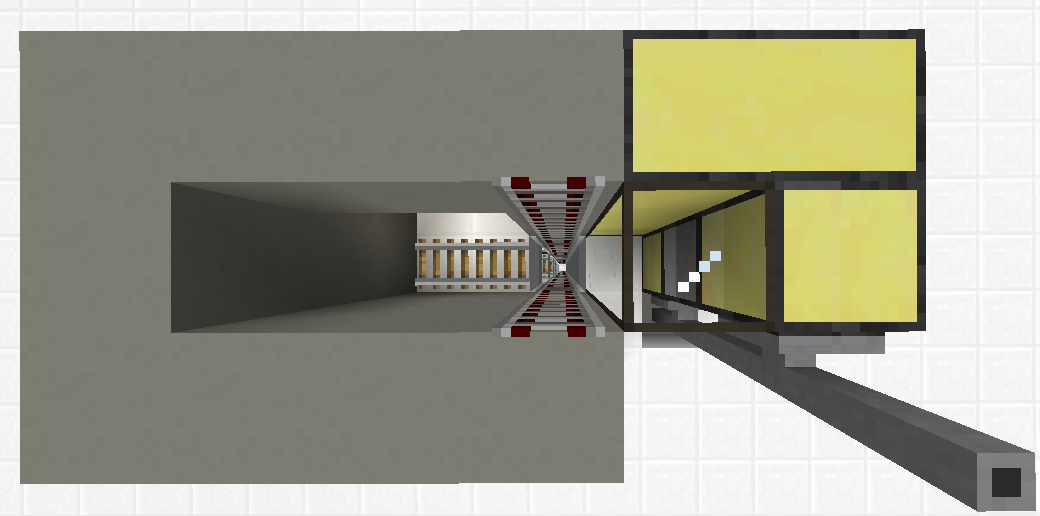
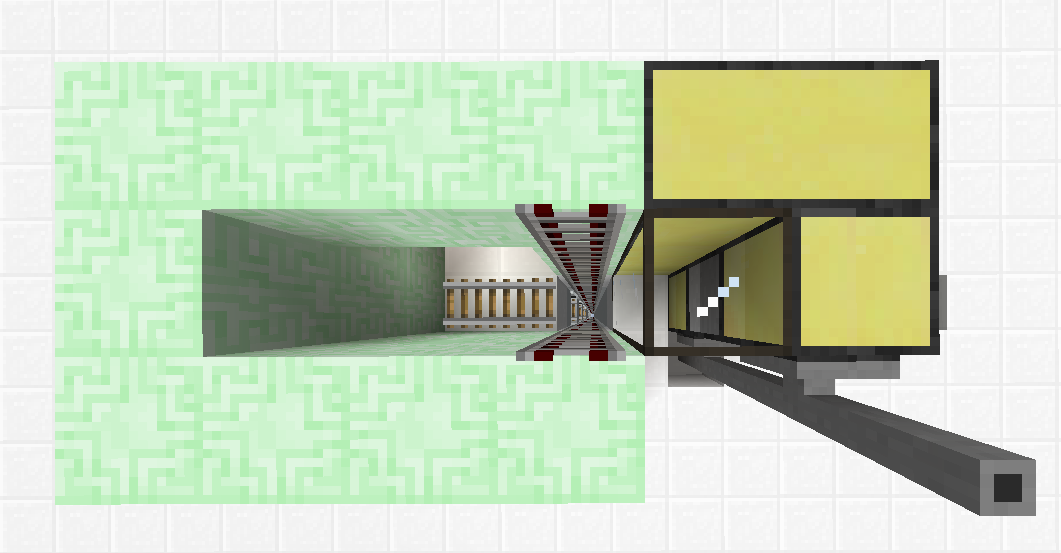
Cart dispenser update (#5)
* Cart Dispense Software

* Rename cartdispenser.lua to cartdispenser

* Rename startup-d.lua to startup-d

* Update README.md

* Update README.md

* Elevator-Inc Images

Addes a gif and images for the readme

* Update README.md

* Added Dispenser Pictures

* Update README.md

* Update README.md

* Updated Booting Sequence

diff --git a/elevator-inc/README.md b/elevator-inc/README.md
@@ -1,27 +1,20 @@
 # MutsFM's Elevator Inc.
 
-This readme will first explain shortly how the "MutsFM Elevator Inc" elevator system works in Minecraft and a quick guide to setting up your own system using "MutsFM Elevator Inc" software. Below that is an explanation on how the individual files in this repository work.
+This readme explains how the "MutsFM Elevator Inc" elevator system works in Minecraft and a quick guide to setting up your own system using "MutsFM Elevator Inc" software. Below that is an extensive explanation on how the individual files in this repository work.
 
 # Table of Contents
-[Invidual Files](README.md#individualfiles)
-
-Github repository files
-=====
-
-The following files should be in the repository:
-  * startup-c
-  * floorcontroller
-  * floorcontroller-lf
-  * activatefloor
-  * deactivatefloor
-  * startup-t
-  * touchscreen
-  * startup-d *to be added*
-  * cartdispenser *to be added*
+- [Important](https://github.com/MutsFM/computercraft/tree/master/elevator-inc#important)
+- [How the Elevator System Works](https://github.com/MutsFM/computercraft/tree/master/elevator-inc#how-the-elevator-system-works)
+- [Quick Start Guide for Setting Up the Software](https://github.com/MutsFM/computercraft/tree/master/elevator-inc#quick-start-guide-for-setting-up-the-software)
+- [Invidual Files](https://github.com/MutsFM/computercraft/tree/master/elevator-inc#individual-files)
+  - [Controller Computer](https://github.com/MutsFM/computercraft/tree/master/elevator-inc#controller-computer-1)
+  - [Touchscreen Computer](https://github.com/MutsFM/computercraft/tree/master/elevator-inc#touchscreen-computer-1)
+  - [Cart Dispenser Computer](https://github.com/MutsFM/computercraft/tree/master/elevator-inc#cart-dispenser-1)
+- [Github Repository Files](https://github.com/MutsFM/computercraft/tree/master/elevator-inc#github-repository-files)
 
 IMPORTANT
 =====
-Every floor uses two computers: a controller computer and a touchscreen computer. Each uses its own startup script, however for clarity, the names of these scripts have been amended slightly in this repository to indicate which script belongs to which computer. Additionally, several scripts provided in the respository apply to the same computer and it depends on the needs of your elevator system (e.g. number of floors or visual design for your touchscreen) which script you require.
+Every floor uses two computers: a controller computer and a touchscreen computer. Each uses its own startup script, however for clarity, the names of these scripts have been amended slightly in this repository to indicate which script belongs to which computer. Additionally, several scripts provided in the respository apply to the same touchscreen computer and it depends on the needs of your elevator system (e.g. number of floors or visual design for your touchscreen) which script you require.
 
 Therefore, several files in this repository need to be titled differently on your computer in Minecraft. Each section below will indicate if this is the case.
 
@@ -36,21 +29,30 @@ Using Railcraft, minecarts travel upwards on redstone powered elevator tracks an
 #### Elevator System
 Every floor needs to have a controller computer and a 'touchscreen' connected to a computer. The player clicks on a floor number displayed on the touchscreen. The touchscreen computer registers this input, and sends out a corresponding message for the selected floor over the rednet network. Controller computers listen for these messages and once they receive a message, they act accordingly by either activating or deactivating their redstone output. The redstone output from the controller computer in turn influences the elevator track located at that level.
 
-Pictures of the elevator system's layout are available in the Wiki. (TO BE ADDED)
+Below are visual representations of the layout for one floor of the elevator system.
+
+![ElevatorSkeleton](/images/elevator-inc/ElevatorSkeleton.gif)
+![PCView](/images/elevator-inc/pcview.png)
+![TopDownView](/images/elevator-inc/topview.png)
+
+**Note:** The elevator tracks and network cables should be extended upwards and downwards as necessary. The glass blocks are added for visibility, while green blocks added as contrast. Both the glass blocks and green blocks merely serve illustrative purposes, and can be replaced by any block suitable for your building's interior style.
+
+**Note:** The disk station is optional, however may speed up the elevator system's building and installation process. See [Additional Tips](https://github.com/MutsFM/computercraft/tree/master/elevator-inc#additional-tips) below.
 
 If the floor is selected, the controller computer powers the elevator track at the floor and all elevator tracks below it, allowing for the cart to reach that floor - regardless if the cart is coming from a higher or lower floor.
 
-If the floor is unselected, the controller computer does not power the elevator track at the floor. It may however still be powered if a floor above the respective floor is selected. The power then however comes from the controller computer above.
+If the floor is unselected, the controller computer does not power the elevator track at the floor. Elevator tracks may however still be powered if a floor above the respective floor is selected - the power then however should be coming from an activated controller computer above.
 
-For aesthetic purposes, it is advised to reserve at least a floor space of 4 blocks wide by 6 blocks long. Smaller would be possible, at the cost of aesthetics. Due to the height of the touchscreen, every floor needs to be at least 3 blocks high.
+For aesthetic purposes, it is advised to reserve at least a floor space of 4 blocks wide by 7 blocks long. Smaller would be possible, at the cost of aesthetics. Due to the height of the touchscreen, every floor needs to be at least 3 blocks high.
 
 #### Network
-All computers (both controller and touchscreen) in a building's elevator system are connected via network wires. Although wireless connection is a possibility in ComputerCraft, it may result in unwanted interference from other computers broadcasting on the wireless communication channel used by the elevator system. In addition, elevator systems in two adjacent buildings would need to broadcast on different channels, in order for the systems to operate separately. This would however require a lot of small changes to the code on each computer in the system to be done in Minecraft itself. Therefore, a closed wired network has been chosen as the better solution, as this can be implemented without the risk of interference and without the need to make any changes to the network code from the computer in Minecraft.
+All computers in a building's elevator system are connected via networking cables. Although wireless connection is a possibility in ComputerCraft, it may result in unwanted interference from other computers broadcasting on the wireless communication channel used by the elevator system. In addition, elevator systems in adjacent buildings would need to broadcast on different channels, in order for the systems to operate separately. This would however require a lot of additional small changes to the code on each computer in the system to be done in Minecraft itself. Therefore, a closed wired network has been chosen as the better solution, as this can be implemented without the risk of interference and without the need to make any changes to the network code from the computer in Minecraft.
 
 #### Cart Dispenser
 The software comes with a feature to request an empty Minecart to be delivered to your respective floor. You would need to set up a cart dispenser system in the basement of your building for this feature to work.
 
-Pictures of the cart dispenser system are available in the Wiki. (TO BE ADDED)
+![DispenserSystem](/images/elevator-inc/DispenserSystem.png)
+![DispenserComputer](/images/elevator-inc/DispenserComputer.png)
 
 The cart dispenser feature is however optional. Should you not wish to have such feature, you can comment out the button in the touchscreen programme (for more information, see the individual file on the cart dispenser below). In that case, you need to bring your own minecart with you.
 
@@ -68,7 +70,7 @@ On your controller computer on the **lowest** floor of your building that you wa
 ### Touchscreen Computer
 The touchscreen computer requires a 2 wide, 3 high construction of monitors, to be placed on the right side of the touchscreen computer.
 
-On your touchscreen computer, you need to install the startup-t and touchscreen programmes. You need to title the startup-t programme as startup. You need to replace `"Floor1"` in the first line of the touchscreen programme with the corresponding floor number, e.g. `"Floor6"`. Note that the groundfloor should be entered as `"Floor0"`.
+On your touchscreen computer, you need to install the startup-t and touchscreen programmes. You need to title the startup-t programme as `startup`. You need to replace `"Floor1"` in the first line of the touchscreen programme with the corresponding floor number, e.g. `"Floor6"`. Note that the groundfloor should be entered as `"Floor0"`.
 
 **NOTE:** If you wish, you can customise the colors on the screen by changing the color codes in the section 'Color Customisation Options'.
 
@@ -77,11 +79,40 @@ On your touchscreen computer, you need to install the startup-t and touchscreen 
 **NOTE:** In the original design, touchscreen programmes for up to 10 floors display all available floors on the screen. Touchscreen programmes for more than 10 floors use multiple pages to display all floors. In the numpad design, a maximum of 25 floors is displayed at one page, with the possiblity to display more than 25 floors by using multiple pages. 
 
 ### Cart Dispenser Computer
-To be added
+The cart dispenser computer requires a cart dispenser placed at the back of if, with its opening facing the tracks. A booster track, powered by redstone, is required to be placed on the first track from the cart dispener. (The two additional tracks as pictured in the image above are not required, merely the booster track.)
+
+On your cart dispenser computer, you need to install the startup-d and cart dispenser programmes. You need to title the startup-d programme as `startup`. You need to fill the cart dispenser with minecarts. You need to connect the cart dispenser computer with a wired modem and networking cables to your elevator system.
+
+### Additional Tips
+The quickest way to build a lot of floors is to use worldedit. Build one floor, and subsequently copy and paste additional floors above or below it. **NOTE:** One small drawback however is that Minecraft copies the computers rather then replacing them with new computers; said differently, the copied computers are copies of the original floor's computer and are therefore not assigned a unique computerID. This means that all computers in your elavator system use the same folder on your pc, making it impossible to assign different floors, as they require a separate folder for each computer in Minecraft. **You therefore always need to replace the computers with new computers in case you use worldedit to copy and paste your floors.** Nevertheless, replacing the computers is still significantly quicker than building all floors from scratch.
+
+The quickest way to get the programmes in this repository on your computercraft computers depends on whether you have access to the world's save files.
+
+*If you have access to the world's save files*, the easiest way would be to simply download the programmes in this repository and subsequently copy and paste them in the respective computercraft computer folders. (Don't forget to adjust them accordingly!)
+
+*If you do not have access to the world's save files*, then the easiest way would be to use git to download all files to one computer in Minecraft, and subsequently put them on a disk. Copy and pasting them from that disk on the respective computers in Minecraft is much faster than typing the 'git get' command for every programme, due to the length of the command.
+
+This latter method however requires the 'git' programme to be installed on a computer on your Minecraft server. Should you not have access to the programme, ask your server's admin to place it on a computer for you.
+
+To get the programmes using git on your computer in Minecraft, use the command structure as presented in the following example:
+
+`git get MutsFM computercraft master elevator-inc/startup-c startup`
 
 ---
 # Individual Files
 The explanations below are ordered by the type of computer that uses them.
+
+- [Controller Computer](https://github.com/MutsFM/computercraft/tree/master/elevator-inc#controller-computer-1)
+  - [startup-c](https://github.com/MutsFM/computercraft/tree/master/elevator-inc#startup-c)
+  - [floorcontroller](https://github.com/MutsFM/computercraft/tree/master/elevator-inc#floorcontroller)
+  - [floorcontroller](https://github.com/MutsFM/computercraft/tree/master/elevator-inc#floorcontroller-lf)
+  - [activatefloor & deactivatefloor (optional)](https://github.com/MutsFM/computercraft/tree/master/elevator-inc#activatefloor--deactivatefloor-optional)
+- [Touchscreen Computer](https://github.com/MutsFM/computercraft/tree/master/elevator-inc#touchscreen-computer-1)
+  - [startup-t](https://github.com/MutsFM/computercraft/tree/master/elevator-inc#startup-t)
+  - [touchscreen](https://github.com/MutsFM/computercraft/tree/master/elevator-inc#touchscreen)
+- [Cart Dispenser Computer](https://github.com/MutsFM/computercraft/tree/master/elevator-inc#cart-dispenser-1)
+  - [startup-d](https://github.com/MutsFM/computercraft/tree/master/elevator-inc#startup-d)
+  - [cartdispenser](https://github.com/MutsFM/computercraft/tree/master/elevator-inc#cartdispenser)
 
 ---
 ## Controller Computer
@@ -152,14 +183,17 @@ In addition, this file will replicate a computer booting - which sole purpose is
 
 This programme allows your players to select a floor for the elevator.
 
-It has three main purposes:
+It has four main purposes:
 * It connects to the screen. (Make sure the monitor is placed on the right side of the computer!),
 * It registers the input from the player on the touchscreen, and 
-* If the player selects a floor, it sends out a corresponding rednet message to controller computers.
+* If the player selects a floor, it sends out a corresponding rednet message to controller computers, or
+* If the player selects "request cart", it sends out a corresponding rednet message to the cart dispenser computer.
 
 The touchscreen also includes a feature that displays the corresponding floor number differently from the other floors, allowing players to identify on which floor they are.
 
 The touchscreen programme furthermore allows for easy customisation of the colors displayed on the screen. You can change the colors in the Color Customisation Options section. This is described in further detail below.
+
+**Note:** The cart request function and system is optional. The elevator system will still work, even if the cart dispense system is not build. In such case, the 'cart request' button on the touchscreen will merely not result in a cart to be delivered to the floor. If desired, you could delete or comment out the respective sections in the touchscreen programme. Touchscreen programmes without a cart request function are currently considered for a future release of Elevator-Inc.
 
 The touchscreen programme in this repository is for a 7 floor building, however in the folder "ts" you can find additional touchscreen programmes for buildings with more floors and with different designs. The number behind "touchscreen" indicates for how many floors that programme is designed. For example, touchscreen20n is designed for a building with 20 floors with a numpad design rather than the original design.  
 
@@ -175,27 +209,69 @@ The screen function is used to draw the touchscreen, presenting the floors which
 The listen function waits for the player to hit the screen, and if a player hits a floor number, then sends the accompanying message over rednet to the controller computers.
 
 *Color customization.* By changing the color codes in the respective lines, you can change the following elements:
-**TO BE MADE INTO A TABLE**
-- `sbckc` allows you to change the screen's background color.
-- `ttxtc` allows you to change the color of the text presented at the top of the screen.
-- `bckc` allows you to change the background color of the floor number buttons.
-- `ftxtc` allows you to change the color of the text for the floor number corresponding to the floor (as entered in the first line of the programme).
-- `txtc` allows you to change the color of the text for the other floor numbers.
+
+Code | Changes
+-----|--------
+`sbckc` | screen's background color
+`ttxtc` | text presented at the top of the screen
+`bckc` | background color of the floor buttons
+`ftxtc`| color of the text for the floor number corresponding to the floor (as entered in the first line of the programme)
+`txtc` | color of the text for the other floor numbers
 
 You can also change the floor selection confirmation screen's colors, by changing the color code of `csbckc` to change the screen's background color, and `cstextc` to change the color of the text.
 
 #### Original Design 10+ Floors
-To be added.
+To be added in a future version of Elevator-Inc.
 
 #### Numpad Design
-Code is similar to the original design, with the major differences being that the floors are displayed as numerical buttons (e.g. "1", "2") rather than buttons including the word floor (e.g. "Floor 1", "Floor2"), and that a maximum of 25 floors can be displayed on the screen.
+Code is similar to the original design, with the major differences being that the floors are displayed as numerical buttons (e.g. "1", "2") rather than buttons including the word "floor" (e.g. "Floor 1", "Floor2"), and that a maximum of 25 floors can be displayed on the screen rather than 10 floors.
 
-To add colour customisation options.
+*Color customization.* By changing the color codes in the respective lines, you can change the following elements:
+
+Code | Changes
+-----|--------
+`sbckc` | screen's background color
+`ttxtc` | text presented at the top of the screen
+`txtc` | color of the text for the floor numbers
+`fcbkc`| background color for the floor button corresponding to the floor (as entered in the first line of the programme)
+`bckc` | background color of the other floor buttons
 
 #### Numpad Design 25+ Floors
-To be added
+To be added in a future version of Elevator-Inc.
 
 ---
 ## Cart Dispenser
-To be added
-Add text on commenting out the function
+The Cart Dispenser Computer dispenses a cart upon request by the player. It requires the following scripts:
+- startup-d
+- cartdispenser
+
+**Note:** The cart request function and system is optional. The elevator system will still work, even if the cart dispense function is not installed. In such case, the 'cart request' button on the touchscreen will merely not result in a cart to be delivered to the floor. If desired, you could delete or comment out the respective sections in the touchscreen programme. Dedicated touchscreen programmes without a cart request function are currently considered for a future release of Elevator-Inc.
+
+---
+### startup-d
+**Important!** This file should be titled as followed on your controller computer in Minecraft: `startup`
+
+It has two main purposes:
+* To connect your computer to the rednet network. (Make sure you connect the wired modem on the left side of the monitor.)
+* To automatically start the cartdispenser programme.
+
+In addition, this file will replicate a computer booting - which sole purpose is immersion only, with no real function.
+
+---
+### cartdispenser
+Upon receiving a "cart request" rednet message, this programme applies a redstone to the cart dispenser, making it dispense one cart, which is then propelled by the redstone powered booster track towards the elevator tracks.
+
+---
+Github repository files
+=====
+
+The following files should be in the repository:
+  * startup-c
+  * floorcontroller
+  * floorcontroller-lf
+  * activatefloor
+  * deactivatefloor
+  * startup-t
+  * touchscreen
+  * startup-d
+  * cartdispenser
